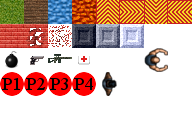
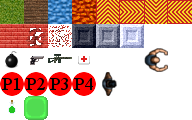
Added GreenPotion and GreenSlime.

Changed region(s): [[0.125, 0.8, 0.25, 1.0], [0.0312, 0.825, 0.0938, 0.95]]

diff --git a/core/src/wge3/entity/bullets/GreenSlimeBomb.java b/core/src/wge3/entity/bullets/GreenSlimeBomb.java
@@ -1,0 +1,59 @@
+package wge3.entity.bullets;
+
+import com.badlogic.gdx.graphics.g2d.Batch;
+import com.badlogic.gdx.graphics.g2d.Sprite;
+import com.badlogic.gdx.utils.Timer;
+import wge3.entity.character.Bullet;
+import wge3.entity.mapobjects.GreenSlime;
+import wge3.interfaces.Explosive;
+import wge3.world.Tile;
+
+public class GreenSlimeBomb extends Bullet implements Explosive {
+    
+    private Timer timer;
+    private Timer.Task task;
+    private int time; // in seconds
+    private int range;
+    private int damage;
+    
+    public GreenSlimeBomb() {
+        sprite = new Sprite(texture, 0, 4*Tile.size, Tile.size, Tile.size);
+        
+        range = 2;
+        time = 2;
+        timer = new Timer();
+        task = new Timer.Task() {
+
+            @Override
+            public void run() {
+                explode();
+            }
+        };
+    }
+
+    public int getRange() {
+        return range;
+    }
+
+    @Override
+    public void draw(Batch batch) {
+        sprite.draw(batch);
+    }
+    
+    public void startTimer() {
+        timer.scheduleTask(task, time);
+    }
+
+    @Override
+    public void explode() {
+        float x = this.getX();
+        float y = this.getY();
+        int range = this.getRange();
+        for (Tile currentTile : area.getTiles()) {
+            if (currentTile.canBeSeenFrom(x, y, range) && !currentTile.hasObject()) {
+                currentTile.setObject(new GreenSlime());
+            }
+        }
+        area.removeBullet(this);
+    }
+}

diff --git a/core/src/wge3/world/MapLoader.java b/core/src/wge3/world/MapLoader.java
@@ -12,6 +12,7 @@ import wge3.entity.ground.OneWayTile;
 import wge3.entity.ground.Water;
 import wge3.entity.ground.WoodenFloor;
 import wge3.entity.items.Bomb;
+import wge3.entity.items.GreenPotion;
 import wge3.entity.items.Handgun;
 import wge3.entity.items.HealthPack;
 import wge3.entity.mapobjects.BrickWall;
@@ -72,6 +73,8 @@ public final class MapLoader {
                     case 23: object = null; area.addCreature(new Zombie(), x, y); break;
                         
                     case 25: object = null; area.addCreature(new Player(), x, y); break;
+                        
+                    case 33: object = new GreenPotion(); break;
                     default: object = null; break;
                 }
                 if (object != null) {

diff --git a/core/src/wge3/entity/items/GreenPotion.java b/core/src/wge3/entity/items/GreenPotion.java
@@ -1,0 +1,24 @@
+package wge3.entity.items;
+
+import com.badlogic.gdx.graphics.g2d.Sprite;
+import wge3.entity.bullets.GreenSlimeBomb;
+import wge3.entity.character.Creature;
+import wge3.entity.terrainelements.Item;
+import wge3.world.Tile;
+
+public class GreenPotion extends Item {
+    
+    public GreenPotion() {
+        sprite = new Sprite(texture, 0, 4*Tile.size, Tile.size, Tile.size);
+        name = "green potion";
+    }
+    
+    @Override
+    public void use(Creature user) {
+        GreenSlimeBomb bomb = new GreenSlimeBomb();
+        bomb.setPosition(user.getX(), user.getY());
+        user.getInventory().removeItem(this);
+        user.getArea().addBullet(bomb);
+        bomb.startTimer();
+    }
+}

diff --git a/core/src/wge3/entity/mapobjects/GreenSlime.java b/core/src/wge3/entity/mapobjects/GreenSlime.java
@@ -1,0 +1,17 @@
+package wge3.entity.mapobjects;
+
+import com.badlogic.gdx.graphics.g2d.Sprite;
+import wge3.entity.terrainelements.MapObject;
+import wge3.world.Tile;
+
+public class GreenSlime extends MapObject {
+
+    public GreenSlime() {
+        sprite = new Sprite(texture, Tile.size, 4*Tile.size, Tile.size, Tile.size);
+        
+        passable = false;
+        blocksVision = false;
+        HP = 1000;
+        hardness = 50;
+    }
+}
